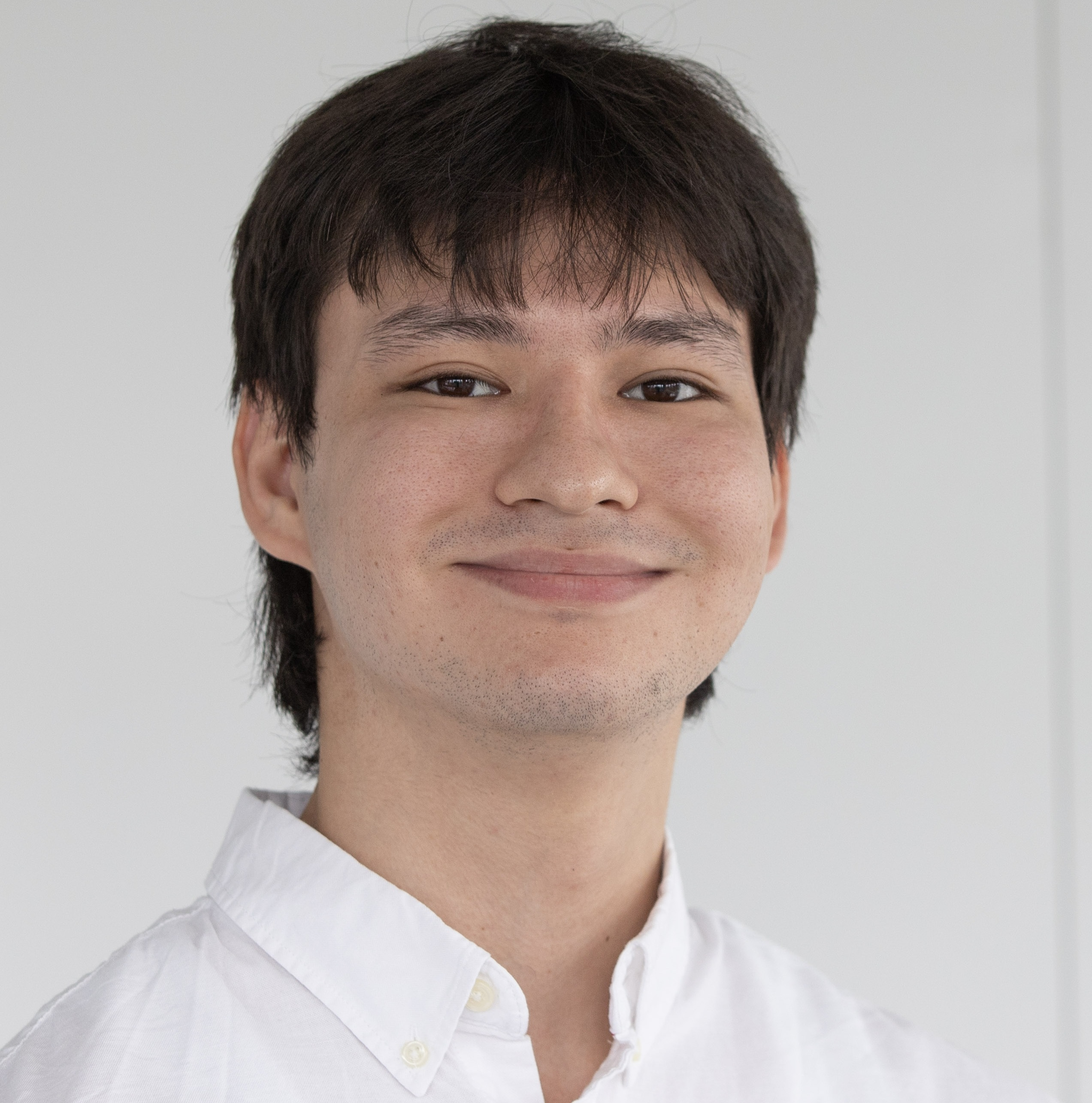
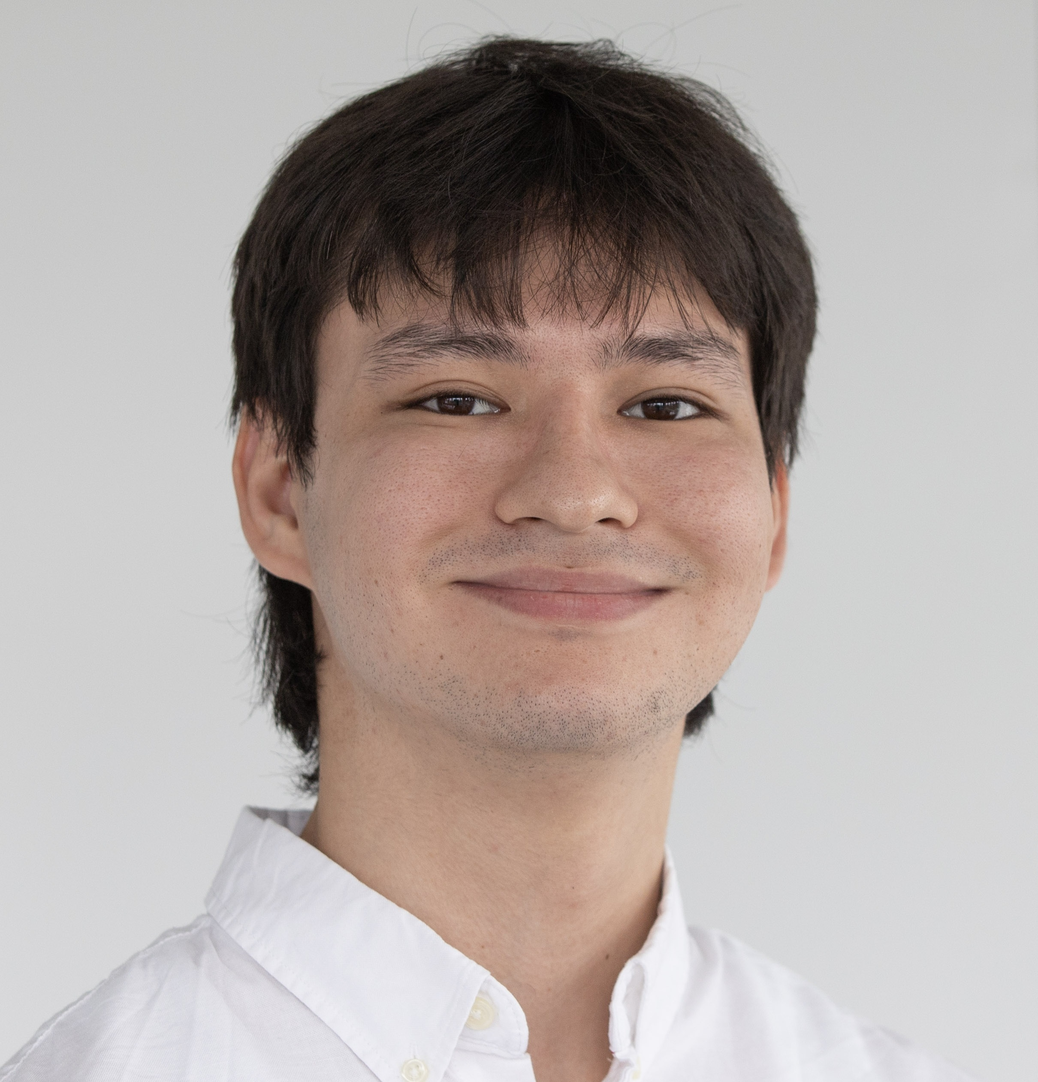
small overhaul

diff --git a/portfolio.html b/portfolio.html
@@ -39,6 +39,47 @@
     <hr />
     <div class="project_summary">
       <details>
+        <summary>DIY Bluetooth Lautsprecher</summary>
+        <center><h4>Aufbau</h4></center>
+        <p>
+          Diese Lautsprecher war ein Schulprojekt von der BVJ Technik und Informatik.
+          Jeder Schuler:in hatte die Möglichkeit, eines zu bauen, aber nicht jeder hat es geschafft.
+          Alles von 0 bis 100 ist selber gemacht, die Gehäuse haben ich im Holzbearbeitung zusammengebaut,
+          die Elektronikteile sind auch von mir gelötet und zusammengestellt, die Programmierung habe ich ebenfalls
+          selber erledigt.
+        </p>
+        
+
+        <figure style="text-align: center">
+          <center>
+            <img src="img/Lautsprecher.jpg" width="auto" height="auto" style="max-width:50vw; "/>
+          </center>
+          <figcaption>Bluetooth Lautsprecher</figcaption>
+        </figure>
+
+        <center><h4>Demo Video</h4></center>
+        <center>
+          <iframe
+            width="200"
+            height="300"
+            src="https://www.youtube.com/embed/iDlRrrQ0rgE?si=gFrtXU-v6_k6ap6h"
+                
+            allowfullscreen
+          ></iframe>
+        </center>
+        <br />
+        <center>
+          <a
+            class="fullscreenytshort"
+            href="https://www.youtube.com/embed/iDlRrrQ0rgE?si=gFrtXU-v6_k6ap6h"
+            target="_blank"
+            >Watch fullscreen</a
+          >
+        </center>
+        <br />
+      </details>
+      <br>
+      <details>
         <summary>Python Snake Game</summary>
 
         <center><h4>Aufbau</h4></center>
@@ -159,21 +200,21 @@
           "
         >
           <figure style="margin: 0; padding: 0; text-align: center">
-            <img src="img/BallMenu.jpg" width="200" height="auto" />
+            <img src="img/BallMenu.jpg" width="auto" height="auto" style="max-width: 30vw;" />
             <figcaption>Hauptmenü</figcaption>
           </figure>
           <figure
             style="margin: 0; padding: 0; text-align: center; margin-top: 10px"
           >
-            <img src="img/BallGameplay.jpg" width="200" height="auto" />
+            <img src="img/BallGameplay.jpg" width="auto" height="auto" style="max-width: 30vw;" />
             <figcaption>Gameplay</figcaption>
           </figure>
           <figure style="margin: 0; padding: 0; text-align: center">
             <img
               src="img/LogicBlocks.png"
-              width="350"
+              width="auto"
               height="auto"
-              style="margin-top: 10px"
+              style="margin-top: 10px; max-width: 50vw;"
             />
             <figcaption>Logik Blöcke</figcaption>
           </figure>
@@ -229,7 +270,7 @@
         </ul>
         <figure style="text-align: center">
           <center>
-            <img src="img/CalculatorSS.jpg" width="250px" height="auto" />
+            <img src="img/CalculatorSS.jpg" width="auto" height="auto" />
           </center>
           <figcaption>Taschenrechner</figcaption>
         </figure>
@@ -274,6 +315,14 @@
           Plan einer vollstänidg funktionierenden Bildungswebseite zu
           realisieren.
         </p>
+
+        <figure style="text-align: center">
+          <center>
+            <img src="img/AlphaWebseite.png" width="auto" height="auto" style="max-width:60vw; "/>
+          </center>
+          <figcaption>Alpha Version</figcaption>
+        </figure>
+
       </details>
     </div>
 

diff --git a/vorstellung.html b/vorstellung.html
@@ -21,9 +21,9 @@
 	<body>
 	<center><h2>Kurze Vorstellung</h2></center>
 	<p>Schön, dass Sie hier sind!
-		Ich heisse Ali, bin 19 und komme aus Afghanistan. Ich bin im Iran geboren und aufgewachsen, habe aber auch in Afghanistan gelebt.
+		Ich heisse Ali, bin 20 und komme aus Afghanistan. Ich bin im Iran geboren und aufgewachsen, habe aber auch in Afghanistan gelebt.
 		2023 kam ich mit meiner Mutter in die Schweiz und wohne seitdem in Zürich.
-		Zu meinen Freizeitbeschäftigungen gehören Fitness, Fotografieren und das Lernen über IT.
+		Zu meinen Freizeitbeschäftigungen gehören Fitness, Velofahren, Fotografieren und das Lernen über IT.
 	</p>
 	<center><img src="img/biking.jpg" height="350"; width="230";></center>
 	<hr>
@@ -41,18 +41,19 @@
 	</p>
 	<hr>
 
-	<center><h2>Hustle</h2></center>
-	<p>Der Weg zum Informatiker ist aber dornig.
-		Ich musste zuerst mein Deutsch verbesseren, und gleichzeitig viel Programmierungserfahrung sammeln,
-		und genau das habe ich gemacht.
-		An verschiedenen IT-Kursen habe ich teilgenommen und zudem auch zu Hause gelernt, um meine Kenntnisse zu vertiefen.
-		An der Fachschule Viventa habe ich mich auf die Sekundarabschlussprüfung für Erwachsene
-		vorbereitet und mein <b>Sek A Abschlusszeugnis mit sehr guten Noten</b>
-		habe ich am 3. Dezember 2025 erhalten.
-		Zurzeit besuche ich weiter die Fachschule Viventa (BVJ Technik und Informatik), wo ich Informatik, Mathe,
-		Deutsch und andere verschiedene Technische und Schulfächer lerne.
-		Zu guter Letzt habe ich dieses Jahr <b>die BMS-Prüfung bestanden</b>, was es mir ermöglicht,
-		während meiner Lehrstelle die Berufsmaturitätsschule zu besuchen.
+	<center><h2>Herausforderung</h2></center>
+	<p>Bisher habe ich vieles unternommen, um meiner Leidenschaft für die IT zu folgen.
+	Ich habe an mehreren IT-Kursen bei Futurekids teilgenommen, viele Schnuppertage absolviertund mir zu Hause
+	Programmieren beigebracht. Während des Lernjahres 2025–2026 habe ich zudem das BVJ Technik und Informatik
+	besucht, wo wir viele verschiedene technische Fächer kennengelernt haben, darunter auch Informatik.
+
+	Deutsch ist grundsätzlich meine dritte Sprache. Daher habe ich mir in diesen drei Jahren viel Mühe gegeben,
+	meine Deutschkenntnisse zu vertiefen und mich an das Bildungssystem der Schweiz anzupassen. Dies wird durch mein 
+	Sekundarabschlusszeugnis auf Stufe A, meine Resultate im Multicheck sowie meinen BMS-Nachweis belegt.
+
+	Bis zum Lehrstart 2027 werde ich ein Informatikpraktikum bei der AZW in Uster absolvieren. Dadurch kann ich
+	wertvolle Arbeitserfahrung sammeln und mich gezielt auf die Lehre vorbereiten.
+		
 	</p>
 	<div class="robotimg">
 	<center><img src="img/Funnyrobot.png" width="350" height="350" style="max-width: 80%;"></center>

diff --git a/style.css b/style.css
@@ -69,6 +69,7 @@ summary {
     font-size: 1.5rem;
     margin-left: 10px;
     font-weight: bold;
+    transition: 0.2s;
     
   }
 
@@ -268,6 +269,7 @@ summary:hover {
   font-weight: bold;
   cursor: pointer;
   font-size: 1rem;
+  transition: 0.2s;
 	}
 .tictacbutton{
   margin-left: 2vw;
@@ -357,7 +359,13 @@ summary:hover {
   font-weight: bold;
   font-size: large;
   margin: 6px 10px;
+  transition: 0.2s;
 	}
+
+.nav-btn1 a{
+    transition: 0.2s;
+
+}
 
 
 ::-webkit-scrollbar {

diff --git a/index.html b/index.html
@@ -32,7 +32,7 @@
 	</center>
 
 
-	<center><img src="img/Bewerbungsphoto.JPG" height="300" width="300px" style=" border-radius: 50%"></center>
+	<center><img src="img/Bewerbungsphoto.JPG" height="310" width="300px" style=" border-radius: 50%"></center>
 	<center>
 		<h4>Grüeziwohl meine Damen und Herren.<br>
 			Ich heisse Ali Shirzad und dies ist meine Portfolio-Webseite.<br>
